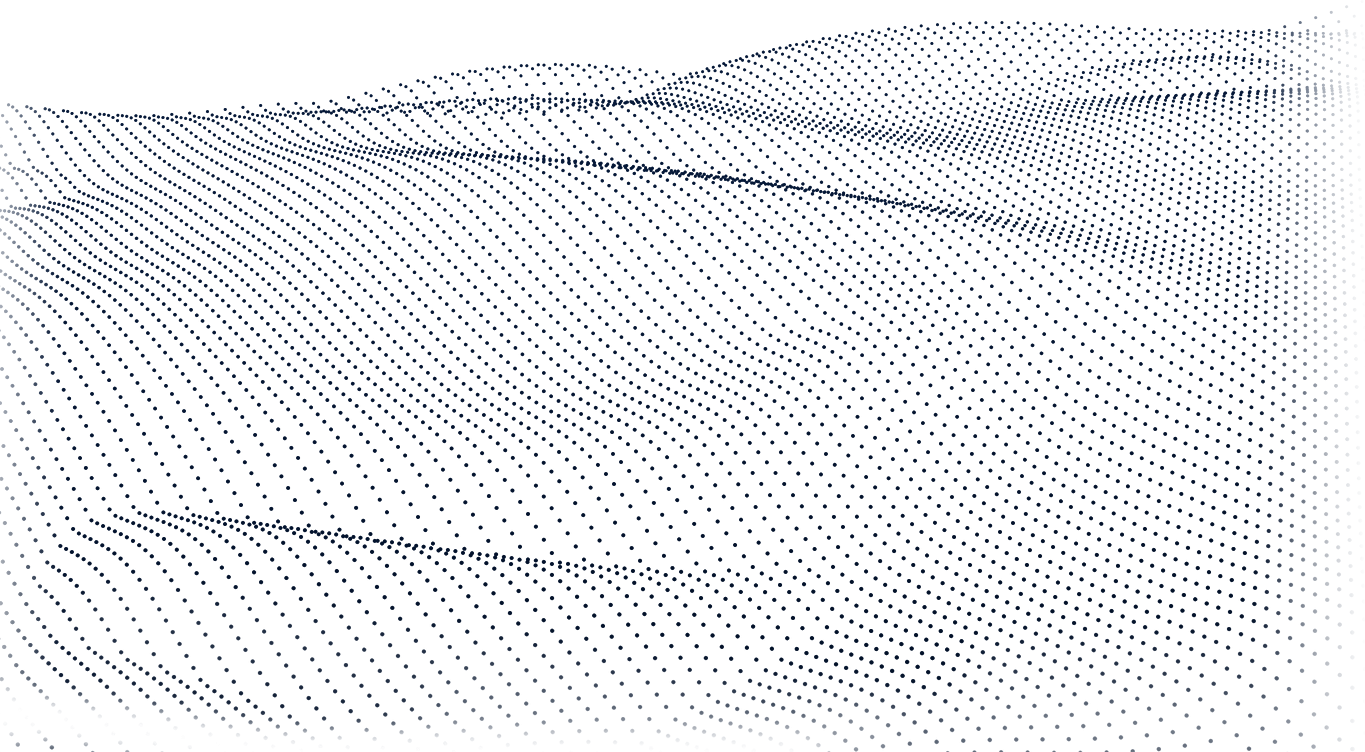
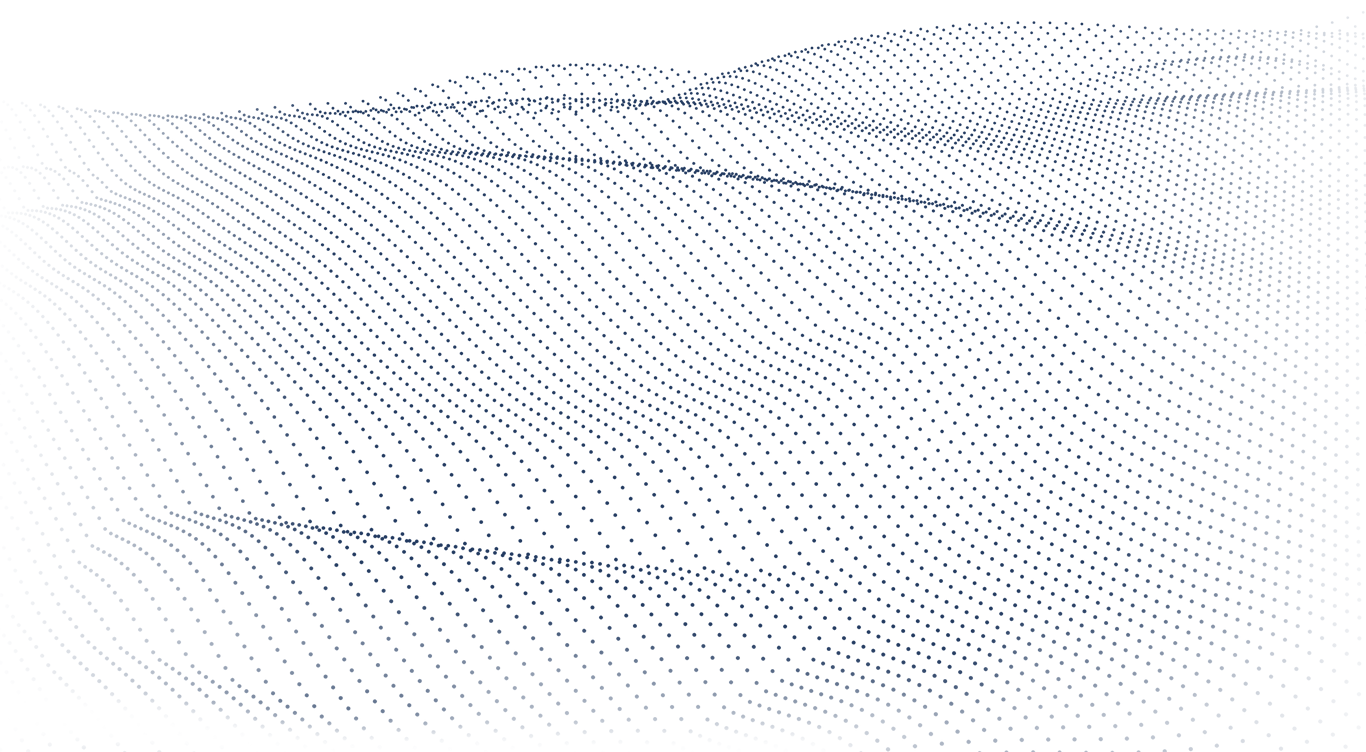
add bgs

diff --git a/www/css/main.css b/www/css/main.css
@@ -17,7 +17,10 @@
 body {
   min-height: 100vh;
   margin: 0;
-  background-image: linear-gradient(86deg, #203d60, #101f40); }
+  background-image: url("../assets/imgs/body-bg-1.png"), url("../assets/imgs/body-bg-1.png"), linear-gradient(86deg, #203d60, #101f40);
+  background-repeat: no-repeat, no-repeat,repeat;
+  background-size: 1366px 752px, 1366px 752px,auto;
+  background-position: center 636px, center 636px, center; }
 
 .link {
   display: inline-block; }

diff --git a/src/styles/base.scss b/src/styles/base.scss
@@ -6,7 +6,10 @@ body {
   min-height: 100vh;
   margin: 0;
 
-  background-image: linear-gradient(86deg, #203d60, #101f40);
+  background-image: url('../assets/imgs/body-bg-1.png'), url('../assets/imgs/body-bg-1.png'), linear-gradient(86deg, #203d60, #101f40);
+  background-repeat: no-repeat, no-repeat,repeat;
+  background-size: 1366px 752px, 1366px 752px,auto;
+  background-position: center 636px, center 636px, center;
 }
 
 .link {
